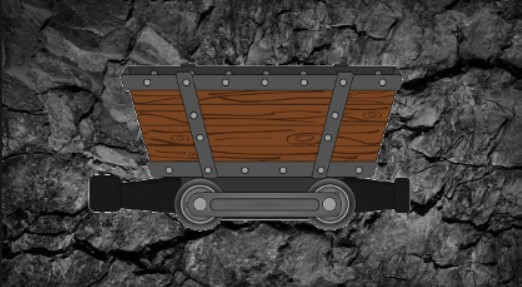
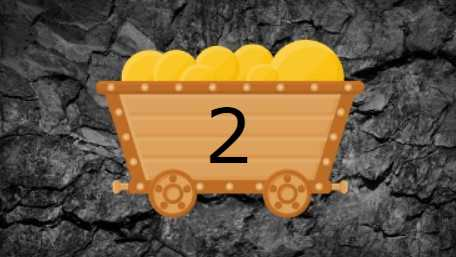
Add_health

diff --git a/View/ViewModel/ViewModelField.cs b/View/ViewModel/ViewModelField.cs
@@ -113,13 +113,27 @@ namespace View.ViewModel
                 {
                     _picture = "water.jpg";
                 } 
-                else
+                else if (((Obstacle)field).Health == 1)
                 {
-                    // _picture = "obstacle.jpg";
                     _picture = "cart1.jpg";
                 }
-                
-                
+                else if (((Obstacle)field).Health == 2)
+                {
+                    _picture = "cart2.jpg";
+                }
+                else if (((Obstacle)field).Health == 3)
+                {
+                    _picture = "cart3.jpg";
+                }
+                else if (((Obstacle)field).Health == 4)
+                {
+                    _picture = "cart4.jpg";
+                }
+                else if (((Obstacle)field).Health == 5)
+                {
+                    _picture = "cart5.jpg";
+                }
+
             }
             else if (field is Cube )
             {

diff --git a/View/ViewModel/ViewModelGame.cs b/View/ViewModel/ViewModelGame.cs
@@ -178,7 +178,7 @@ namespace View.ViewModel
                         ++y;
                         Fields.Add(field);
                     }
-                    else
+                    else if(j >= 0 && i >= 0 && j < _model.Board.Height && i < _model.Board.Width)
                     {
                         ViewModelField field = new ViewModelField();
                         //field.SetText(_model.Board.GetFieldValue(0, 0));//Black
@@ -187,6 +187,10 @@ namespace View.ViewModel
                         field.ChooseActionFieldCommand = new DelegateCommand(param => ChooseActionField(Convert.ToInt32(param)));
                         ++y;
                         Fields.Add(field);
+                    }
+                    else
+                    {
+                        ++y;
                     }
                 ++x;
             }
